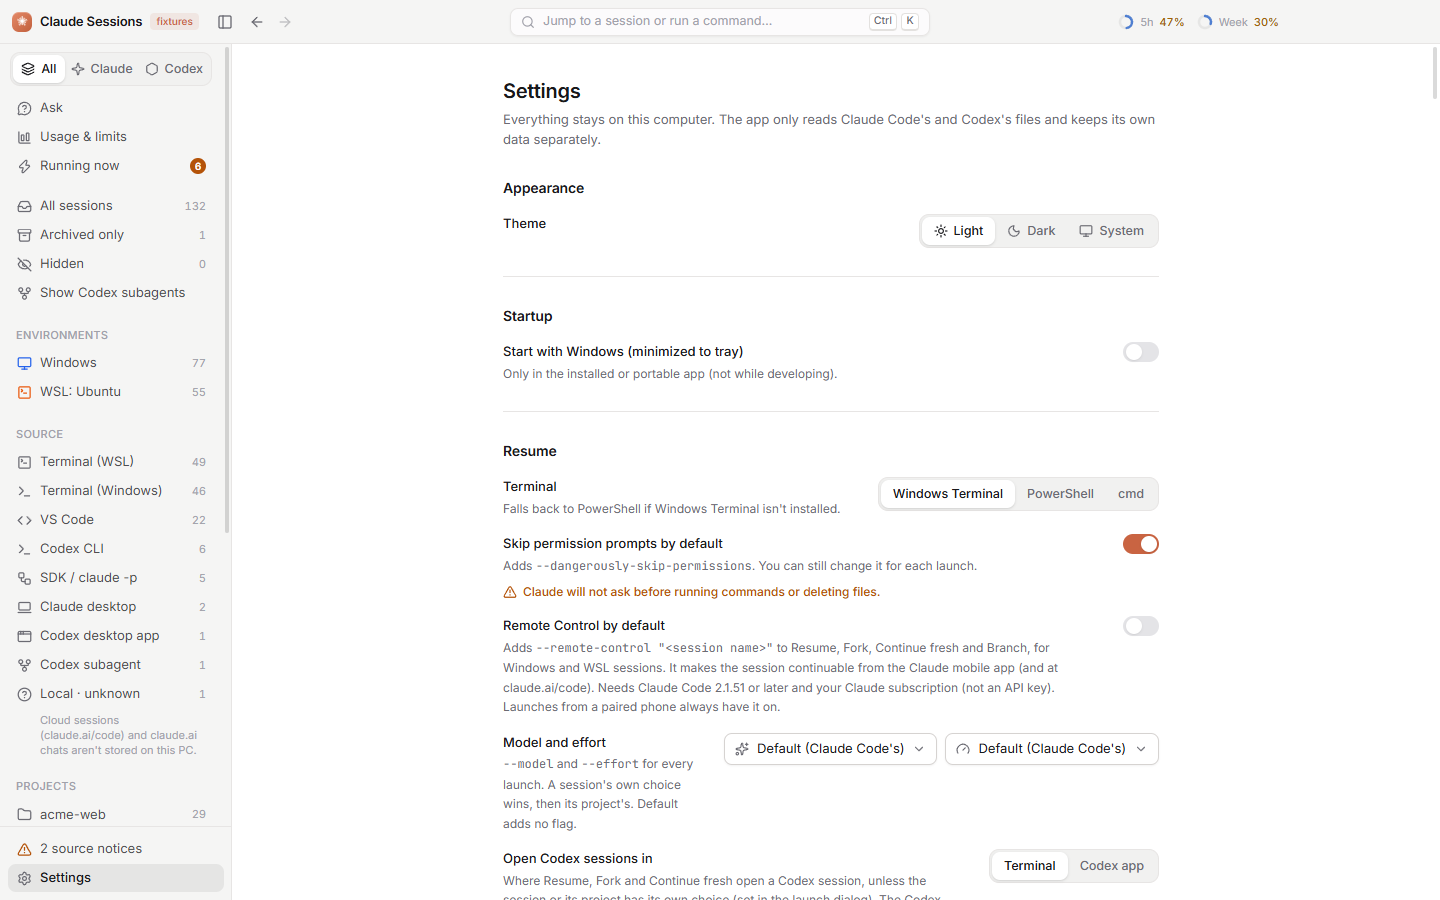
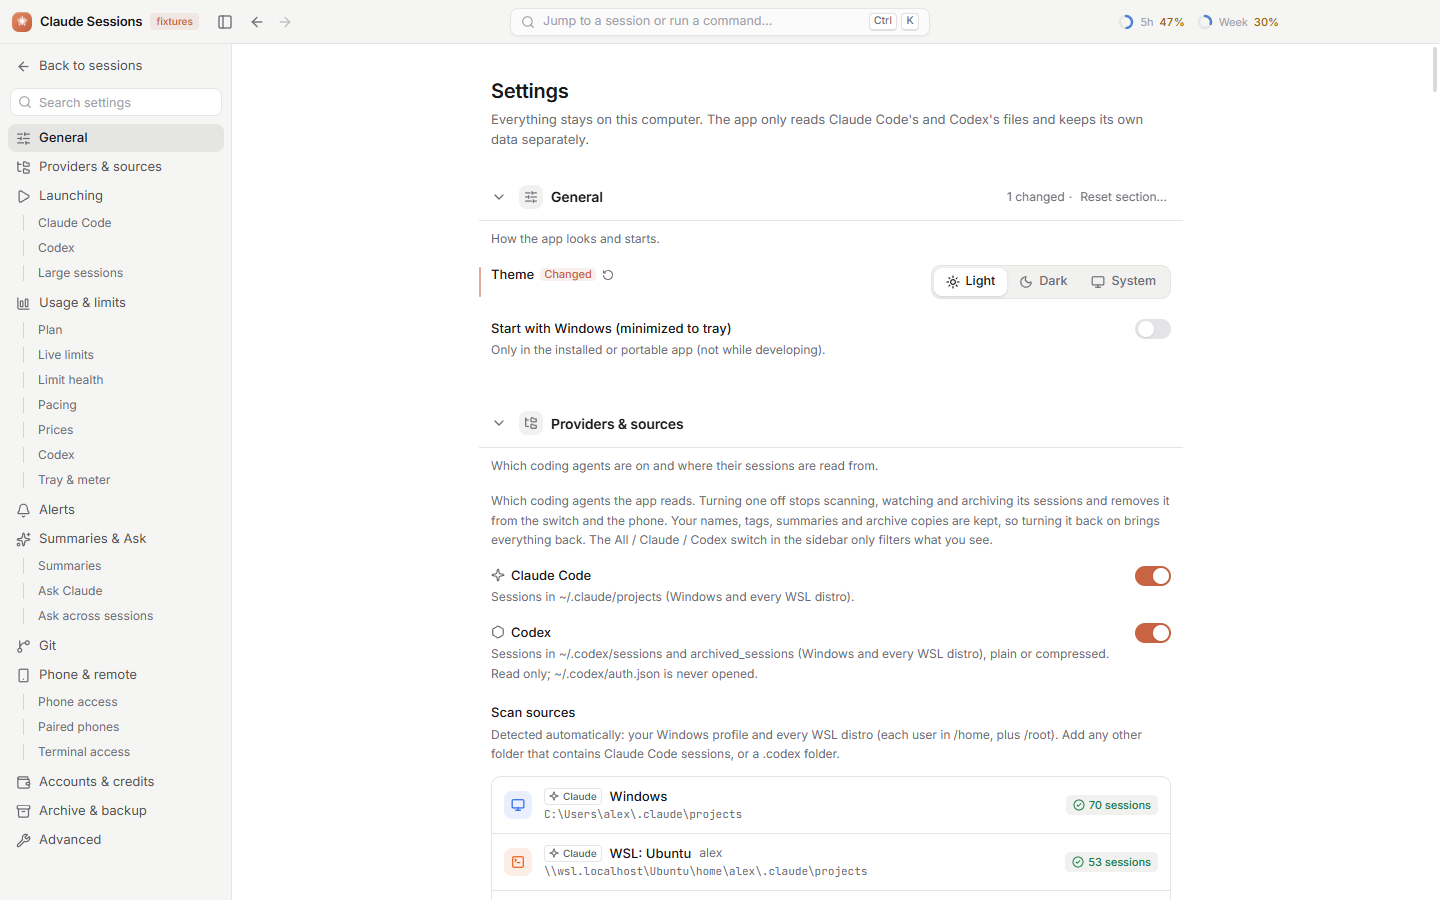
Point links and hints at the new Settings sections; docs and screenshots

diff --git a/src/renderer/src/components/usage/CodexLimits.tsx b/src/renderer/src/components/usage/CodexLimits.tsx
@@ -38,14 +38,14 @@ export function CodexPlanChip({ codex }: { codex: CodexLimitsState }) {
   const detail =
     p.setting === 'auto'
       ? p.detectedCode
-        ? `Detected from plan_type "${p.detectedCode}" in your Codex logs${p.detectedSince ? ` (first seen ${dayFmt.format(p.detectedSince)})` : ''}. ${p.plan ? '' : "This code isn't one the app knows, so its multiplier is 1x. "}Change it in Settings → Codex usage.`
-        : 'No plan_type in your Codex logs yet: Plus is assumed. Change it in Settings → Codex usage.'
+        ? `Detected from plan_type "${p.detectedCode}" in your Codex logs${p.detectedSince ? ` (first seen ${dayFmt.format(p.detectedSince)})` : ''}. ${p.plan ? '' : "This code isn't one the app knows, so its multiplier is 1x. "}Change it in Settings → Usage & limits → Codex.`
+        : 'No plan_type in your Codex logs yet: Plus is assumed. Change it in Settings → Usage & limits → Codex.'
       : `Chosen in Settings${p.detectedCode ? `; the logs say ${codeLabel(p.detectedCode)}` : ''}.`
   return (
     <Tooltip content={`${detail} Limit health multiplier: ${p.mult}x of Plus.`}>
       <button
         type="button"
-        onClick={() => set({ view: 'settings', settingsSection: 'codex-usage' })}
+        onClick={() => set({ view: 'settings', settingsSection: 'usage.codex' })}
         className="inline-flex items-center gap-1 rounded-full border border-border px-2 py-px text-[11px] font-medium text-foreground/80 hover:bg-hover"
       >
         {p.label}

diff --git a/src/renderer/src/components/ask/AskPreviewCard.tsx b/src/renderer/src/components/ask/AskPreviewCard.tsx
@@ -256,7 +256,7 @@ export function AskPreviewCard({
             {preview.cut > 0 && (
               <div className="pl-6 text-xs text-muted-foreground">
                 {preview.cut} more matching passage{preview.cut === 1 ? '' : 's'} left out by the
-                size limits (Settings → Ask).
+                size limits (Settings → Summaries & Ask).
               </div>
             )}
             {open && (
@@ -303,14 +303,15 @@ export function AskPreviewCard({
         {preview.index.skipped > 0 && (
           <div className="text-xs text-muted-foreground">
             The index leaves out {formatInt(preview.index.skipped)} older session
-            {preview.index.skipped === 1 ? '' : 's'} to stay within its size limit (Settings → Ask).
+            {preview.index.skipped === 1 ? '' : 's'} to stay within its size limit (Settings →
+            Summaries & Ask).
           </div>
         )}
         {g?.above && (
           <div className="flex items-start gap-2 rounded-lg border border-warning/30 bg-warning-soft px-3 py-2 text-xs">
             <TriangleAlert className="mt-0.5 size-3.5 shrink-0 text-warning" />
             Your 5-hour limit is at about {Math.round(g.pct ?? 0)}%, above the pause line of{' '}
-            {g.limit}% (Settings → Summaries). Sending still uses your plan&apos;s usage.
+            {g.limit}% (Settings → Summaries & Ask). Sending still uses your plan&apos;s usage.
           </div>
         )}
         {g?.unknown && !g.above && (

diff --git a/src/renderer/src/components/usage/Tabs.tsx b/src/renderer/src/components/usage/Tabs.tsx
@@ -153,8 +153,8 @@ export function CreditsTab({ credits }: { credits: CreditsState | null }) {
       <Card className="p-8 text-center">
         <div className="text-sm font-medium">No API keys yet</div>
         <p className="mx-auto mt-1 max-w-sm text-xs text-muted-foreground">
-          Add an API key in Settings → Accounts to run sessions on API credits, enter your credit
-          grants, and see how long they last.
+          Add an API key in Settings → Accounts & credits to run sessions on API credits, enter your
+          credit grants, and see how long they last.
         </p>
         <Button
           variant="outline"
@@ -242,7 +242,7 @@ export function CreditsTab({ credits }: { credits: CreditsState | null }) {
               ))}
               {s.grants.length === 0 && (
                 <div className="text-xs text-muted-foreground">
-                  No grants entered (Settings → Accounts).
+                  No grants entered (Settings → Accounts & credits).
                 </div>
               )}
             </div>

diff --git a/src/renderer/src/components/summary/SummarizeDialog.tsx b/src/renderer/src/components/summary/SummarizeDialog.tsx
@@ -65,7 +65,7 @@ export function EstimateCard({
         </div>
         <div>
           {estimate.pct5h === undefined
-            ? 'The % of the 5-hour window shows once limit health has a baseline (Settings → Limit health).'
+            ? 'The % of the 5-hour window shows once limit health has a baseline (Settings → Usage & limits).'
             : 'An estimate from your limit-health baseline: it varies with the model and what else runs.'}
         </div>
         {live !== undefined && (
@@ -272,7 +272,7 @@ function SummarizeDialogBody() {
           <div className="flex items-center gap-2 text-xs text-muted-foreground">
             <Info className="size-3.5 shrink-0" />
             Written with {SUMMARY_MODEL_LABEL[sum.model]}. Change the model, the size limit and the
-            pause line in Settings → Summaries.
+            pause line in Settings → Summaries & Ask.
           </div>
 
           <div>

diff --git a/src/renderer/src/components/ResumeDialog.tsx b/src/renderer/src/components/ResumeDialog.tsx
@@ -811,7 +811,7 @@ function ResumeDialogBody({ resume }: { resume: ResumeRequest }) {
                   <Tooltip
                     content={
                       codex
-                        ? "Saved for this session. Default uses the project's default, then Settings → Codex, then Codex's own (no -m / -c model_reasoning_effort / -c service_tier)."
+                        ? "Saved for this session. Default uses the project's default, then Settings → Launching, then Codex's own (no -m / -c model_reasoning_effort / -c service_tier)."
                         : "Saved for this session. Default uses the project's default, then Settings, then Claude Code's own (no flag). An effort level set with CLAUDE_CODE_EFFORT_LEVEL wins over --effort."
                     }
                     side="right"

diff --git a/src/renderer/src/mobile/AskTab.tsx b/src/renderer/src/mobile/AskTab.tsx
@@ -175,8 +175,8 @@ export function AskTab() {
             </div>
             {enabled === false ? (
               <p className="mt-1 text-muted-foreground">
-                Ask on your PC: content questions are off there (Settings → Ask). Questions about
-                counts, dates, models, usage, limits, commits and plans work here.
+                Ask on your PC: content questions are off there (Settings → Summaries & Ask).
+                Questions about counts, dates, models, usage, limits, commits and plans work here.
               </p>
             ) : readOnly ? (
               <p className="mt-1 text-muted-foreground">

diff --git a/src/renderer/src/mobile/PairScreen.tsx b/src/renderer/src/mobile/PairScreen.tsx
@@ -46,8 +46,9 @@ export function PairScreen() {
         Connect to your PC
       </h1>
       <p className="mt-2 max-w-sm text-center text-[14px] leading-relaxed text-muted-foreground">
-        On your PC, open <span className="font-medium text-foreground">Settings → Phone</span> and
-        scan the pairing QR code, or type the code shown there.
+        On your PC, open{' '}
+        <span className="font-medium text-foreground">Settings → Phone &amp; remote</span> and scan
+        the pairing QR code, or type the code shown there.
       </p>
       <form
         className="mt-7 w-full max-w-sm space-y-3"

diff --git a/src/renderer/src/components/live/LiveParts.tsx b/src/renderer/src/components/live/LiveParts.tsx
@@ -56,7 +56,7 @@ export function StatusChip({
         live.background
           ? 'A background shell command is still running'
           : live.state === 'approval' && live.guess
-            ? 'Probably: a command that needs approval has waited a while. Turn on Codex alerts (Settings → Session alerts) for exact approvals.'
+            ? 'Probably: a command that needs approval has waited a while. Turn on Codex alerts (Settings → Alerts) for exact approvals.'
             : undefined
       }
     >

diff --git a/src/renderer/src/components/BillingPicker.tsx b/src/renderer/src/components/BillingPicker.tsx
@@ -68,7 +68,7 @@ export function BillingPicker({
           ))}
           {accounts.length === 0 && (
             <div className="px-2 py-1.5 text-xs text-muted-foreground">
-              Add an API key in Settings → Accounts to run sessions on API credits.
+              Add an API key in Settings → Accounts & credits to run sessions on API credits.
             </div>
           )}
         </DropdownMenuRadioGroup>

diff --git a/src/renderer/src/components/ask/AskView.tsx b/src/renderer/src/components/ask/AskView.tsx
@@ -112,7 +112,7 @@ export function AskNotice({ onEnabled }: { onEnabled?: () => void }) {
           <Check /> Turn on content questions
         </Button>
         <span className="text-[11px] text-subtle-foreground">
-          You can turn this off in Settings → Ask.
+          You can turn this off in Settings → Summaries & Ask.
         </span>
       </div>
     </div>

diff --git a/src/renderer/src/components/live/RunningNow.tsx b/src/renderer/src/components/live/RunningNow.tsx
@@ -334,7 +334,7 @@ export function RunningView() {
             <Button
               size="sm"
               variant="outline"
-              onClick={() => set({ view: 'settings', settingsSection: 'alerts' })}
+              onClick={() => set({ view: 'settings', settingsSection: 'alerts.hooks' })}
             >
               Set up
             </Button>

diff --git a/src/renderer/src/components/usage/UsageView.tsx b/src/renderer/src/components/usage/UsageView.tsx
@@ -424,7 +424,7 @@ export function UsageView() {
   )
   const openPrices = remote
     ? undefined
-    : () => set({ view: 'settings', settingsSection: 'codex-usage' })
+    : () => set({ view: 'settings', settingsSection: 'usage.codex' })
 
   const subtitle =
     view === 'codex'
